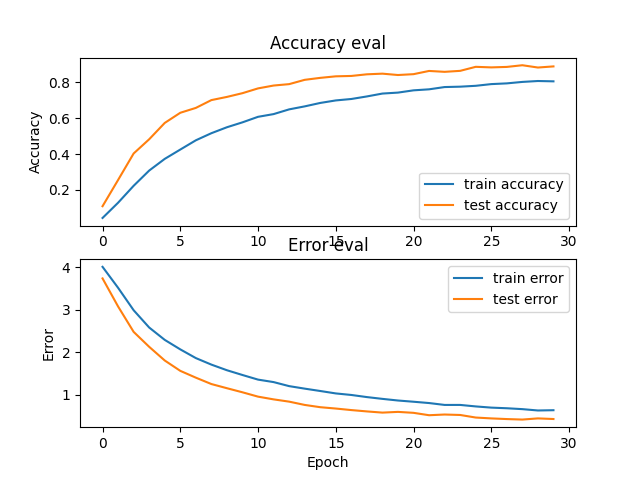
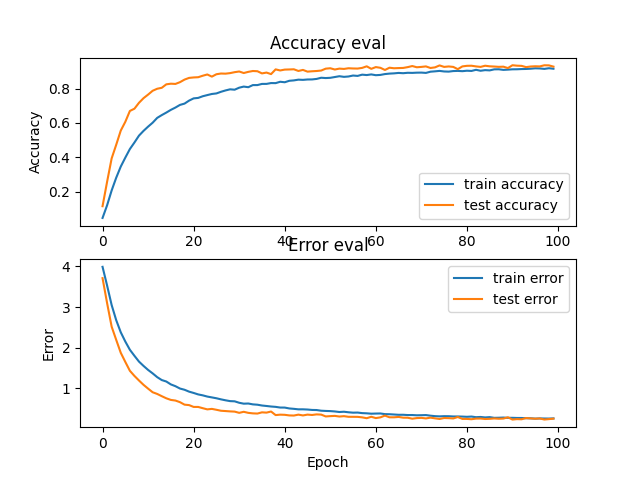
gpu support

diff --git a/src/main.py b/src/main.py
@@ -43,9 +43,11 @@ model.compile(optimizer=optimiser,
 model.summary()
 
 # train model
-history = model.fit(X_train, y_train, validation_data=(X_validation, y_validation), batch_size=32, epochs=30)
+history = model.fit(X_train, y_train, validation_data=(X_validation, y_validation), batch_size=32, epochs=100)
 
 # plot accuracy/error for training and validation
 plot_history(history)
 
-
+# evaluate model on test set
+test_loss, test_acc = model.evaluate(X_test, y_test, verbose=2)
+print('\nTest accuracy:', test_acc)
